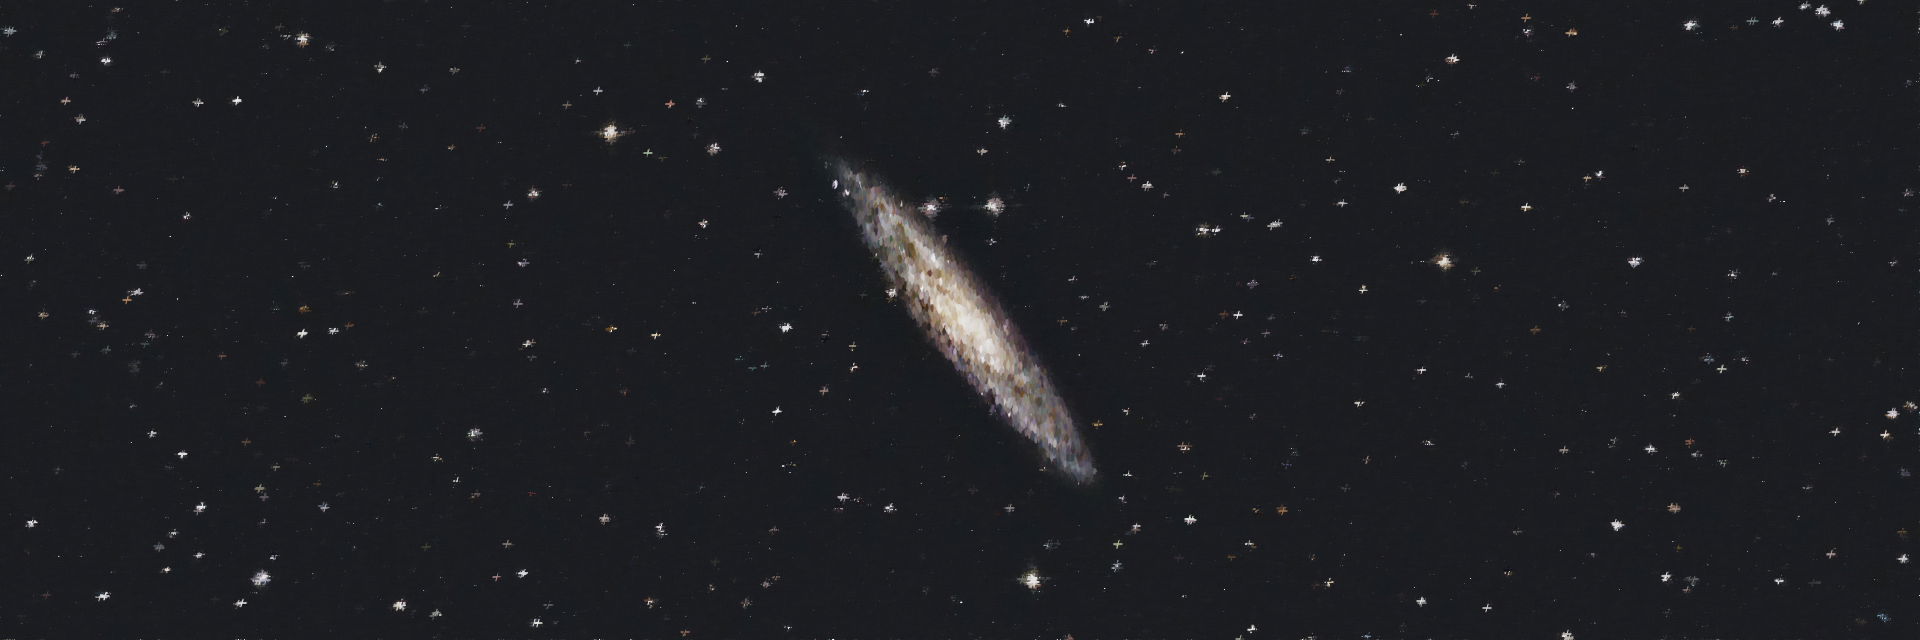
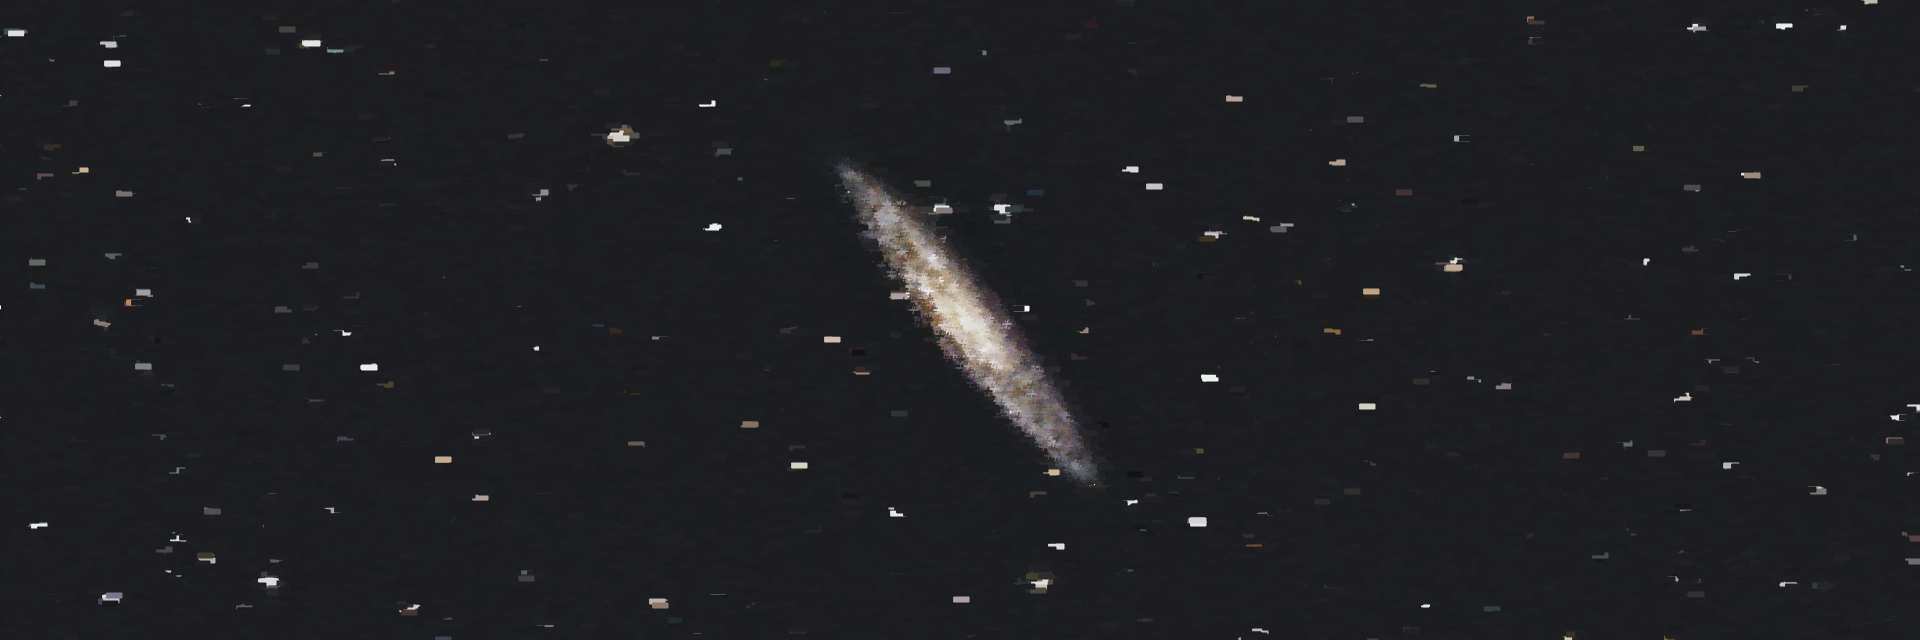
Experimenting - Star/Shape changes

diff --git a/sketch.js b/sketch.js
@@ -34,13 +34,12 @@ function draw () {
 
     if(mask[0] > 128) {
       let pointSize = 2;
-      ellipse(x, y, pointSize-4, pointSize+5);
+      drawStars(x,y,4)
     }
     else {
       let pointSize = 5;
       //rect(x, y, pointSize, pointSize);
-      drawStars(x,y,4)
-
+      rect(x, y, pointSize+10, pointSize);
 
     }
   }

diff --git a/README.md b/README.md
@@ -2,7 +2,6 @@
 
 Theme:
 My overall theme for these images is space and astrophotography. I chose this because outside of Uni and Work, my hobby is to take images of space such as Nebulae and Galaxies. I think it would be cool to use my images because these objects in space all have wildly different shapes, sizes and most importantly colors.
-=========================================================================================================================
 
 Changelog:
-I am now experimenting with the code, trying to make some cool effects by using different shapes and sizes for the render program. One of the shapes I chose to use was a star shape for anything outside of the mask, the shape fits with the overall theme aswell as making a cool effect in the output images. The real stars that are in my original images are rendered out to look like a plus/cartoony looking star shape the makes for a cool effect. I still want to further play around with whats in my mask and how that is rendered out, right now it is still Ellipses but the sizing has been changed.
+I have switched the star shapes to be inside the mask. This change was because they are quite detailed shapes and when they are smaller they have a really cool effect, I think it would be better to have them inside the mask as that is where I want the viewers focus to be on. For the shapes outside of the mask I have made them rectangles. I want the outer shapes to be simple and a lower pixel count as I dont want it to take away from the main subject of the image. I think the dashed lines makes for a cool warping effect, although I may tweak this in future. One thing I for sure want to change is the mask on image 1, I think it leaves too much of the nebula out of the mask and low res, which is where I want to focus to be, so I will edit its mask and make it fit the entire red coloring in and see what it looks like.
